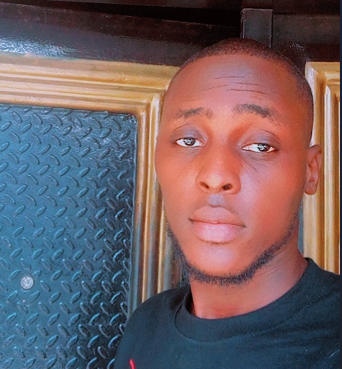
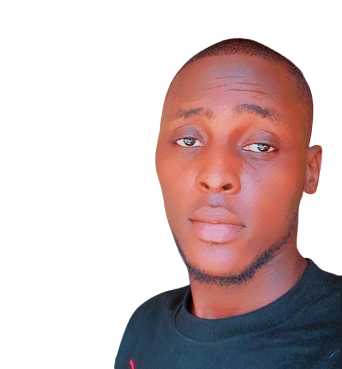
minor updates

diff --git a/src/components/About.js b/src/components/About.js
@@ -3,9 +3,11 @@ export default function About (){
       <main>
          <h3>About</h3>
          <p>
-            I am a frontend developer with a particular interest in making things
-            simple and catchy. I try to keep up with security and 
-            best practices, and am always looking for new things to learn.
+            I am a frontend developer with particular interest in building amazing 
+            websites and user interfaces using html, css, javascript and React. 
+            I try to keep up with web security and best practices, and am always 
+            looking to learn new things.
+
          </p>
       </main>
    )

diff --git a/src/index.css b/src/index.css
@@ -27,7 +27,7 @@ body{
 
 .contact--img{
   width: 100%;
-  border-radius: 10px 10px 0 0;
+  border-radius: 50%;
 }
 
 .contact > h3{
